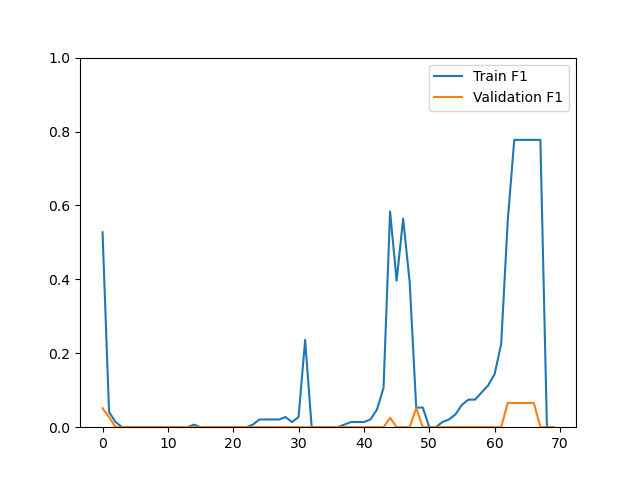
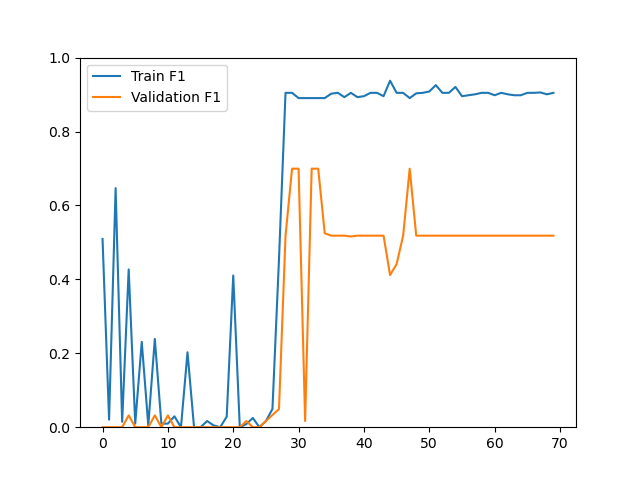
LSTM with layer 2 70 epoch .004 learning rates .3 dropout

diff --git a/LSTM.py b/LSTM.py
@@ -27,7 +27,7 @@ unk_index = 1
 eos_index = 2
 sos_index = 3
 mask_index = 4
-batch_size = 100
+batch_size = 64
 
 rates = 2**np.arange(7)/80
 VOCAB = WordVocab.load_vocab('data/vocab.pkl')
@@ -74,12 +74,13 @@ class LSTM(nn.Module):
         self.embedding = nn.Embedding(LEN_VOCAB, 300)
         self.linear = nn.Linear(hide_dim, 1)
         self.sigmoid = nn.Sigmoid()
-        self.dropout = nn.Dropout(0.5)
+        self.dropout = nn.Dropout(0.3)
 
     def forward(self, x):
         x, _ = self.lstm(x)
-        x = self.dropout(x)
+        #linear is the dense layer here
         x = self.linear(x)
+        x = self.dropout(x)
         return torch.sigmoid(x)
 
 """def accuracy(predicted, actual):
@@ -154,7 +155,7 @@ def trainLoop(model, epochs, training_data, testing_data, optimizer, criterion, 
             outputs = outputs.to(torch.float32)
             test_loss = criterion(outputs, labels)
             accuracy = calculateAccuracy(outputs, labels)
-            print(f'    Batch: {batch} Loss: {test_loss.item():.4f} Accuracy: {accuracy:.2f}%')
+            #print(f'    Batch: {batch} Loss: {test_loss.item():.4f} Accuracy: {accuracy:.2f}%')
 
             epoch_loss += loss.item()
             lossListForEpoch.append(loss.item())
@@ -216,7 +217,7 @@ def trainLoop(model, epochs, training_data, testing_data, optimizer, criterion, 
         precision, recall, f1, _ = precision_recall_fscore_support(all_labels, all_predictions, average='binary')
         precisionV, recallV, f1V, _ = precision_recall_fscore_support(valLabels, valPredictions, average='binary')
         print(f'  Epoch {e} Training - Loss: {epoch_loss:.4f}, Accuracy: {epoch_acc:.4f}, Precision: {precision:.4f}, Recall: {recall:.4f}, F1 Score: {f1:.4f} Records: {epoch_records}')
-        print(f'  Epoch {e} Validation - Loss: {test_loss}, Accuracy: {accuracy}, Precision: {precisionV:.4f}, Recall: {recallV:.4f}, F1 Score: {f1V:.4f}')
+        print(f'           Epoch {e} Validation - Loss: {test_loss: 4f}, Accuracy: {accuracy: .4f}, Precision: {precisionV:.4f}, Recall: {recallV:.4f}, F1 Score: {f1V:.4f}')
 
         e_precisionListTrain.append(precision)
         e_precisionListVal.append(precisionV)
@@ -285,11 +286,11 @@ def formatAndFold():
 
     # critical hyperparameters
     epoch = 70
-    ksplits = 5
-    learning_rate = 0.002
+    ksplits = 3
+    learning_rate = 0.004
 
     # Initialize the model and optimizer
-    model = LSTM(1024, 4)
+    model = LSTM(1024, 2)
     optimizer = optim.Adam(model.parameters(), lr=learning_rate)
     loss_fn = torch.nn.BCELoss()
 
